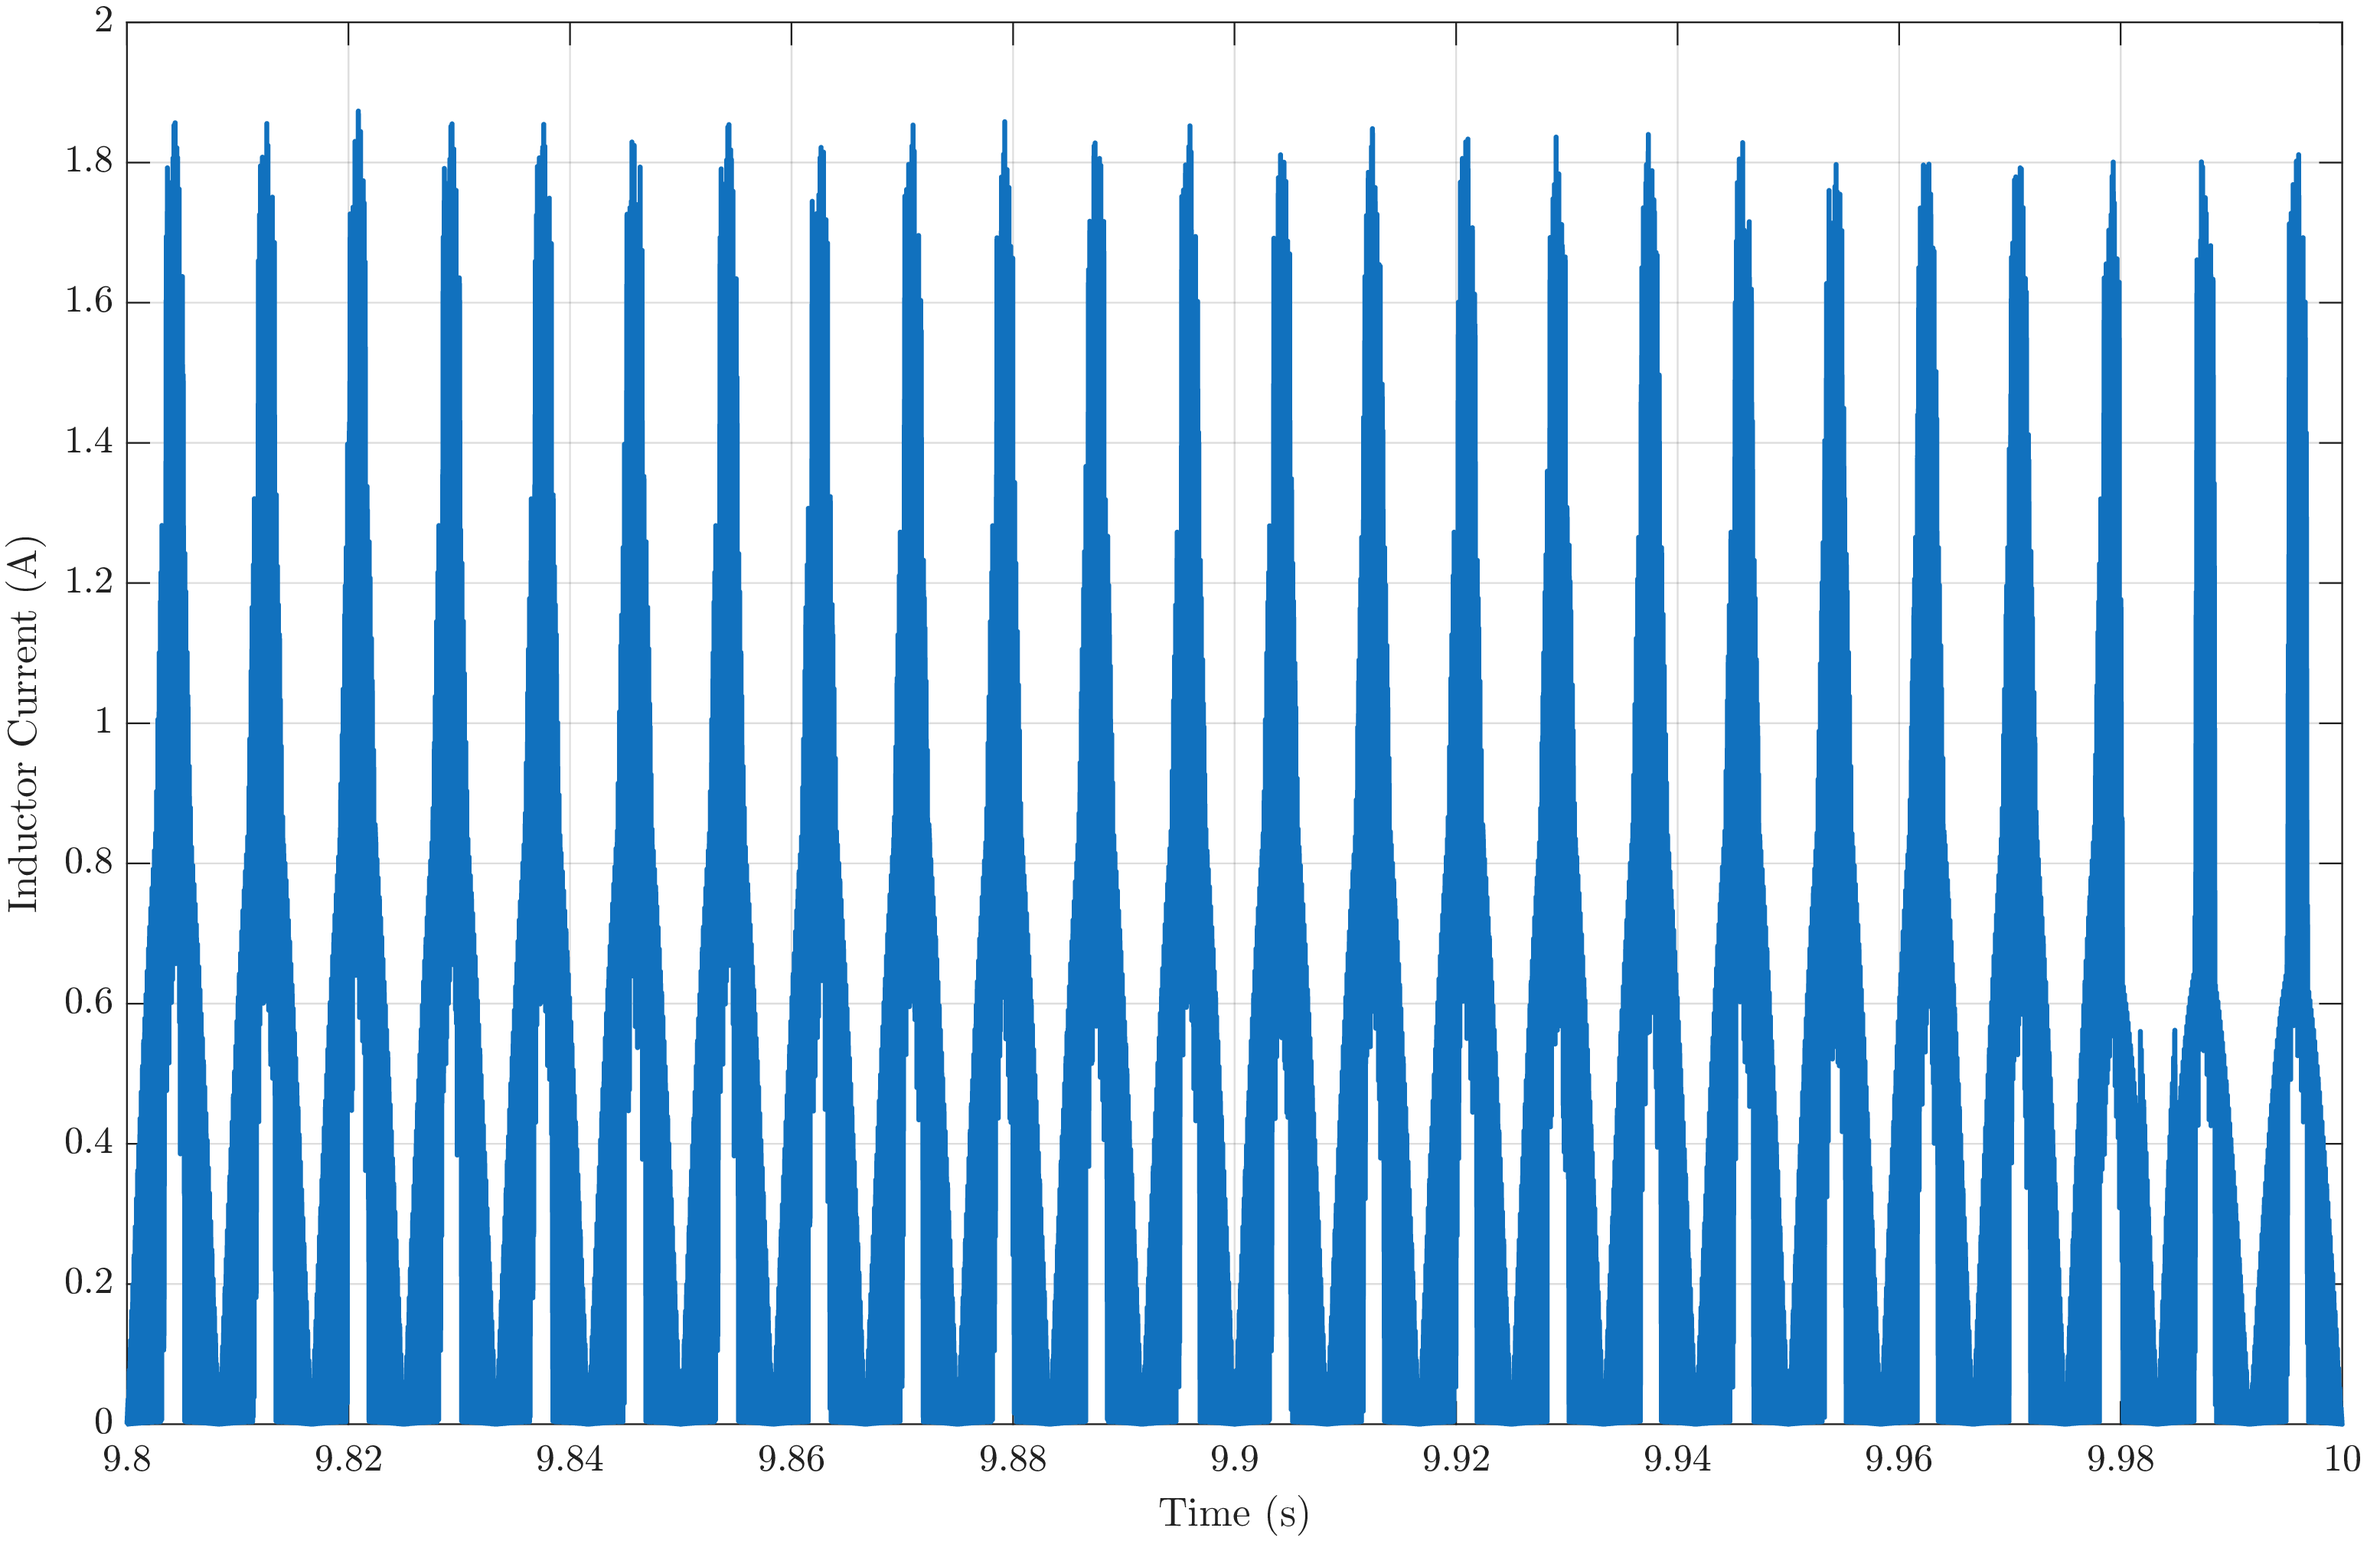
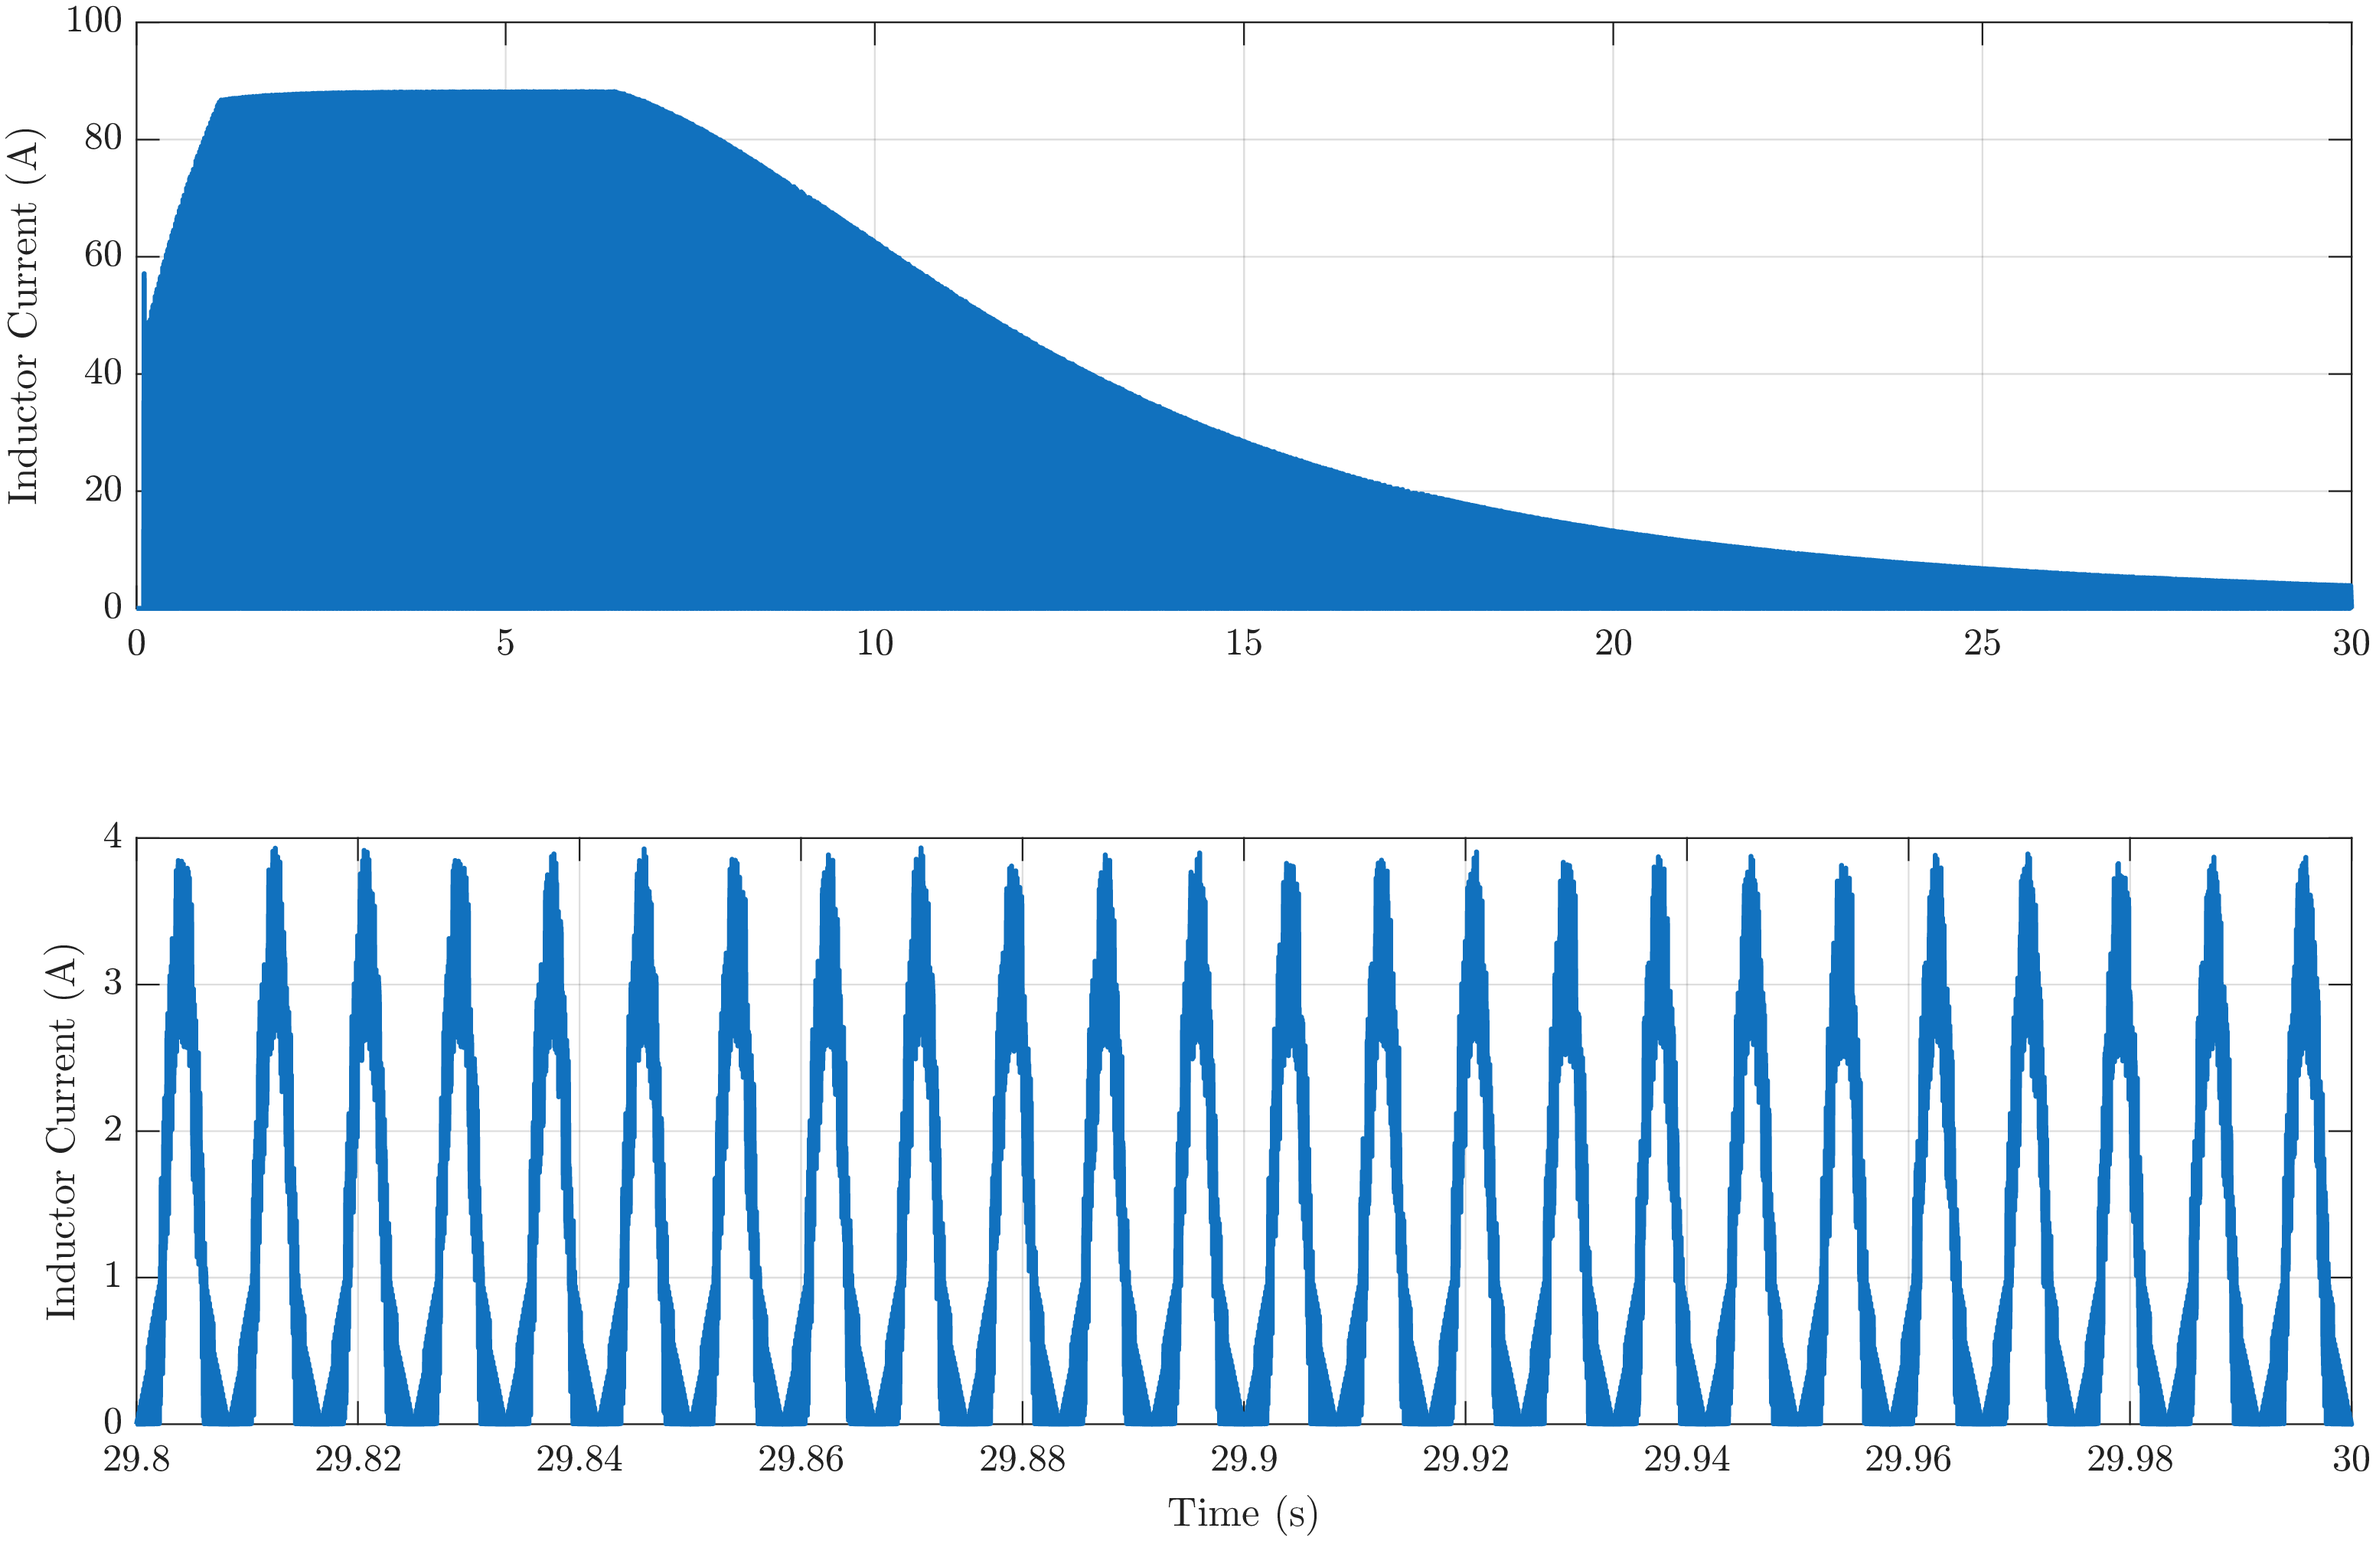
typos in report fixes and fixes of graphs

diff --git a/matlab_code/data_RC_generated.m b/matlab_code/data_RC_generated.m
@@ -1,85 +1,76 @@
-clear all; clc; close all; 
+clear all; clc; close all;
 % this file takes data and processes it. that's it.
-
 % code generated by cringe AI bot bc I cba to format my graphs beautifully by hand
-
 % Load the data file
-load('./RC_load_graphs.mat');
-
-v_out_sig = data.getElement('V_out');
-t         = v_out_sig.Values.Time;
-v_out     = v_out_sig.Values.Data;
-i_out     = data.getElement('I_out').Values.Data;
-ind_curr  = data.getElement('inductor_current').Values.Data;
+load('./RCload_data.mat');
+v_out_sig        = data.getElement(2);
+t                = v_out_sig.Values.Time;
+i_out            = data.getElement(1).Values.Data;
+v_out            = v_out_sig.Values.Data;
+inductor_current = data.getElement(3).Values.Data;
 
 % Formatting variables
 lw       = 1.5;
 fontName = 'CMU Serif';
 fontSize = 12;
 
-%% 1. V_out Plot (0 to 10s)
+t_end = t(end);
+t_ss  = t_end - 0.2;   % steady state window start
+
+%% 1. V_out Plot (full duration + steady state zoom)
 figure('Color', 'w');
 subplot(2,1,1);
 plot(t, v_out, 'LineWidth', lw);
 hold on;
 yline(400, '--r', '400V Target', 'LineWidth', 1.2, 'FontName', fontName);
-xlim([0 10]);
+xlim([0 t_end]);
 ylim([0 440]);
 ylabel('Voltage (V)', 'FontName', fontName);
 set(gca, 'TickLabelInterpreter', 'latex', 'FontName', fontName, 'FontSize', fontSize);
 grid on;
 
-%% 2. V_out Ripple (9.7-10s)
 subplot(2,1,2);
-mask_v = (t >= 9.8 & t <= 10);
-t_v    = t(mask_v);
-v_v    = v_out(mask_v);
-
-plot(t_v, v_v, 'LineWidth', lw);
-xlim([9.8 10]);
+mask_v = (t >= t_ss & t <= t_end);
+plot(t(mask_v), v_out(mask_v), 'LineWidth', lw);
+xlim([t_ss t_end]);
 xlabel('Time (s)', 'FontName', fontName);
 ylabel('Voltage (V)', 'FontName', fontName);
 set(gca, 'TickLabelInterpreter', 'latex', 'FontName', fontName, 'FontSize', fontSize);
 grid on;
-
 exportgraphics(gcf, 'V_out_RC.pdf', 'ContentType', 'vector');
 
-%% 3. I_out Plot (0 to 10s)
+%% 2. I_out Plot (full duration + steady state zoom)
 figure('Color', 'w');
 subplot(2,1,1);
 plot(t, i_out, 'LineWidth', lw);
-hold on;
-xlim([0 10]);
+xlim([0 t_end]);
 ylabel('Current (A)', 'FontName', fontName);
 set(gca, 'TickLabelInterpreter', 'latex', 'FontName', fontName, 'FontSize', fontSize);
 grid on;
 
-%% 4. I_out Zoom (9.7 to 10s)
 subplot(2,1,2);
-mask_i = (t >= 9.7 & t <= 10);
-t_i    = t(mask_i);
-i_i    = i_out(mask_i);
-
-plot(t_i, i_i, 'LineWidth', lw);
-xlim([9.7 10]);
+plot(t(mask_v), i_out(mask_v), 'LineWidth', lw);
+xlim([t_ss t_end]);
 xlabel('Time (s)', 'FontName', fontName);
 ylabel('Current (A)', 'FontName', fontName);
 set(gca, 'TickLabelInterpreter', 'latex', 'FontName', fontName, 'FontSize', fontSize);
 grid on;
-
 exportgraphics(gcf, 'I_out_RC.pdf', 'ContentType', 'vector');
 
-%% 5. Inductor Current 
+%% 3. Inductor Current (full duration + steady state zoom)
 figure('Color', 'w');
-mask_pfc = (t >= 9.7 & t <= 10);
+subplot(2,1,1);
+plot(t, inductor_current, 'LineWidth', lw);
+xlim([0 t_end]);
+ylabel('Inductor Current (A)', 'FontName', fontName);
+set(gca, 'TickLabelInterpreter', 'latex', 'FontName', fontName, 'FontSize', fontSize);
+grid on;
 
-plot(t(mask_pfc), ind_curr(mask_pfc), 'LineWidth', lw);
-hold on;
-
-xlim([9.8 10]);
+subplot(2,1,2);
+plot(t(mask_v), inductor_current(mask_v), 'LineWidth', lw);
+xlim([t_ss t_end]);
 ylabel('Inductor Current (A)', 'FontName', fontName);
 xlabel('Time (s)', 'FontName', fontName);
 set(gca, 'TickLabelInterpreter', 'latex', 'FontName', fontName, 'FontSize', fontSize);
 grid on;
-
 exportgraphics(gcf, 'inductor_current_RC.pdf', 'ContentType', 'vector');
